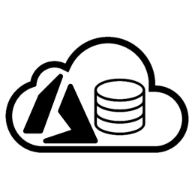
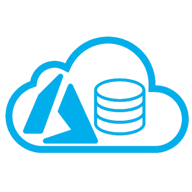
Improved L&F

Changed region(s): [[0.0, 0.1875, 1.0, 0.8125]]

diff --git a/README.md b/README.md
@@ -10,7 +10,7 @@ Try it live at https://azurestorage.azurewebsites.net
 
 Or deploy it wherever you want thanks to [docker images](https://hub.docker.com/r/sebagomez/azurestorageexplorer/) (created with GitHub Actions)
 
-<img src="./res/AzureExplorerLogo-White.png" alt="drawing" width="50"/>
+<img src="./res/AzureExplorerLogo.png" alt="drawing" width="50"/>
 
 # Azure Storage Explorer
 
